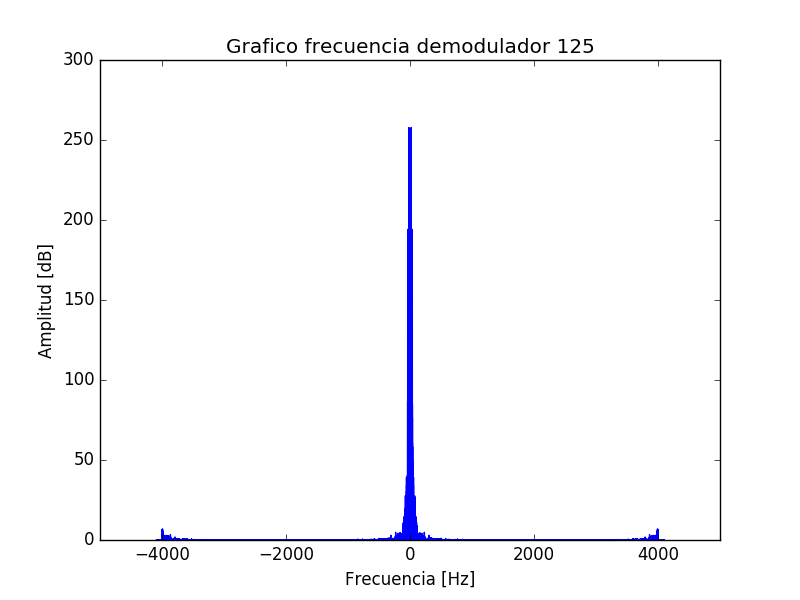
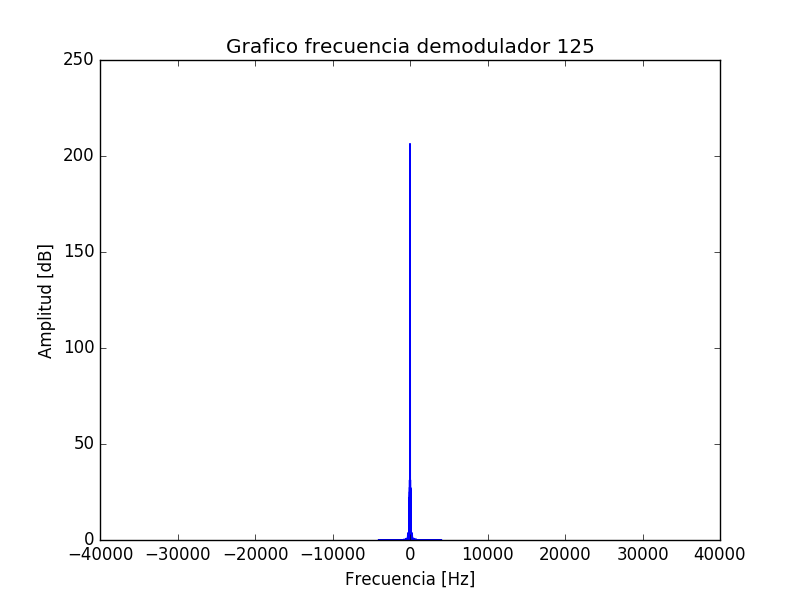
Cambios pequeños

diff --git a/laboratorio3.py b/laboratorio3.py
@@ -1,10 +1,10 @@
 #HECHO:
 ### 1. Utilice la señal “handel.wav” publicada en  www.udesantiagovirtual.cl
-
-#POR HACER:
 ### 2. Aplique una modulación AM y una modulación FM al 15%, 100% y 125% (porcentaje
 ###   de modulación). Un gráfico por cada modulación ayudará a exponer los resultados
 ###   obtenidos.
+
+#POR HACER:
 ### 3. Grafique el espectro de frecuencias de la señal original y modulada. Determine el
 ###   ancho de banda usada por la señal modulada.
 ### 4. Implemente un demodulador para AM o FM y compare los resultados.
@@ -31,8 +31,8 @@ from numpy import linspace,cos,interp
 from scipy.io.wavfile import read, write
 from scipy.fftpack import fft, ifft
 from scipy.signal import firwin, lfilter
+import scipy.integrate as integrate
 import matplotlib.pyplot as plt
-from matplotlib import animation
 from math import pi
 
 ###################################################
@@ -54,6 +54,7 @@ def makeGraphic(title, xlabel, xdata, ylabel, ydata):
     plt.title(title)
     plt.xlabel(xlabel)
     plt.ylabel(ylabel)
+    #plt.xlim(-40000,40000)
     plt.plot(xdata, ydata)
     plt.savefig("images/"+title + ".png")
     plt.show()
@@ -87,18 +88,15 @@ def modulacionAM(percentage,dataAudio,timesAudio,rate,totalTime):
     plt.title("Señal Modulada AM al " +str(percentage)+"%")
     graph3 = plt.plot(timesCarrier[0:1000],AM[0:1000])
 
-   # anim = animation.FuncAnimation(fig, animate,frames=100, interval=5, blit=True)
-    plt.savefig("images/modulacion"+str(percentage)+".png")
+    plt.savefig("images/modulacionAM"+str(percentage)+".png")
     plt.show()
     return AM,timesCarrier
 
-
 def demoduladorAM(percentage,timesModulated,dataModulated):
     timesCarrier = linspace(0,totalTime,250000*totalTime)
-    dataCarrier = (percentage/100)*cos(2*pi*62500*timesCarrier)
+    dataCarrier = 100*cos(2*pi*62500*timesCarrier)
     demoduleAM = dataModulated*dataCarrier
     return demoduleAM
-
 
 def modFM(percentage, dataAudio, timesAudio, rate, totalTime):
         freqP = 5/2 * rate # Se necesita de una frecuencia portadora que sea la mitad de la freq obtenida y minimo 4 veces mayor a la freq de muestreo.
@@ -113,9 +111,9 @@ def modFM(percentage, dataAudio, timesAudio, rate, totalTime):
         timesAudio = timesCarrier
         # Señal modulada en su frecuencia
         signalIntegrate =  integrate.cumtrapz(dataAudio, timesAudio, initial=0) # Integral acumulada
-        dataModulated = A * cos(pi * timesCarrier * 6500 + (percentage/100) * signalIntegrate)
+        dataModulated = A * cos(pi * timesCarrier * 6500 + pi*(percentage/100) * signalIntegrate)
 
-
+        plt.figure(1)
         plt.subplot(311)
         plt.title("Señal del Audio")
         plt.plot(timesAudio[:5000], dataAudio[:5000])
@@ -127,11 +125,11 @@ def modFM(percentage, dataAudio, timesAudio, rate, totalTime):
         plt.subplot(313)
         plt.title("Modulación FM "+str(percentage)+" %")
         plt.plot(timesAudio[:5000], dataModulated[:5000], linewidth=0.3, color = "green", marker = "o", markersize= 0.5)
+        plt.savefig("images/modulacionFM"+str(percentage)+".png")
+
         plt.show()
         return 
   
-
-
 def saveWav(title, rate, data):
         write(title + ".wav", rate, data.astype('int16'))
 
@@ -153,54 +151,46 @@ def lowFilter(data,rate):
     filtered = lfilter(coeff,1.0,data)
     return filtered
 
-"""
-def init():
-    line.set_data([],[])
-    return line
 
-def animate(times,data):
-    return times,data
-"""
 ###################################################
 ################ Bloque Principal #################
 ###################################################
 rate, data, times = openWav("handel.wav") #rate = frecuencia_muestreo, data = datos(eje y), times = tiempos(eje x)
 totalTime = len(data)/rate
 fftData, fftFreqs = tFourier(data,rate)
+y = linspace(0, totalTime, len(abs(fftData)))
 makeGraphic("Grafico frecuencia senal original", "Frecuencia [Hz]", fftFreqs, "Amplitud [dB]", abs(fftData))
 
 #Modulación AM.
-print("Graficos Modulacion al 15%")
+print("Modulacion AM al 15%")
 AM15, timesCarrier15 = modulacionAM(15,data,times,rate,totalTime)
 fftData, fftFreqs = tFourier(AM15,rate)
 makeGraphic("Grafico frecuencia AM 15", "Frecuencia [Hz]", fftFreqs, "Amplitud [dB]", abs(fftData))
 
-print("Graficos Modulacion al 100%")
+print("Modulacion AM al 100%")
 AM100, timesCarrier100 = modulacionAM(100,data,times,rate,totalTime)
 fftData, fftFreqs = tFourier(AM100,rate)
 makeGraphic("Grafico frecuencia AM 100", "Frecuencia [Hz]", fftFreqs, "Amplitud [dB]", abs(fftData))
 
-print("Graficos Modulacion al 125%")
+print("Modulacion AM al 125%")
 AM125, timesCarrier125 = modulacionAM(125,data,times,rate,totalTime)
 fftData, fftFreqs = tFourier(AM125,rate)
 makeGraphic("Grafico frecuencia AM 125", "Frecuencia [Hz]", fftFreqs, "Amplitud [dB]", abs(fftData))
 
 #Demodulación AM.
-print("Demodulacion 15%")
+print("Demodulacion AM 15%")
 dem15 = demoduladorAM(15,timesCarrier15,AM15)
 filtered = lowFilter(dem15,rate)
 fftData, fftFreqs = tFourier(filtered,rate)
 makeGraphic("Grafico frecuencia demodulador 15", "Frecuencia [Hz]", fftFreqs, "Amplitud [dB]", abs(fftData))
 
-
-print("Demodulacion 100%")
+print("Demodulacion AM 100%")
 dem100 = demoduladorAM(100,timesCarrier15,AM100)
 filtered = lowFilter(dem100,rate)
 fftData, fftFreqs = tFourier(filtered,rate)
 makeGraphic("Grafico frecuencia demodulador 100", "Frecuencia [Hz]", fftFreqs, "Amplitud [dB]", abs(fftData))
 
-
-print("Demodulacion 125%")
+print("Demodulacion AM 125%")
 dem125 = demoduladorAM(125,timesCarrier15,AM125)
 filtered = lowFilter(dem125,rate)
 fftData, fftFreqs = tFourier(filtered,rate)
@@ -208,7 +198,14 @@ makeGraphic("Grafico frecuencia demodulador 125", "Frecuencia [Hz]", fftFreqs, "
 
 #saveWav("prueba",rate,dem15)
 #Modulación FM.
-
+"""
+print("Modulacion FM 15%")
+modFM(15,data,times,rate,totalTime)
+print("Modulacion FM 100%")
+modFM(100,data,times,rate,totalTime)
+print("Modulacion FM 125%")
+modFM(125,data,times,rate,totalTime)
+"""
 print("Ejecución Finalizada")
 #APUNTES:
 #Aliasing al tener 1000 al ocupar un poco más del doble
